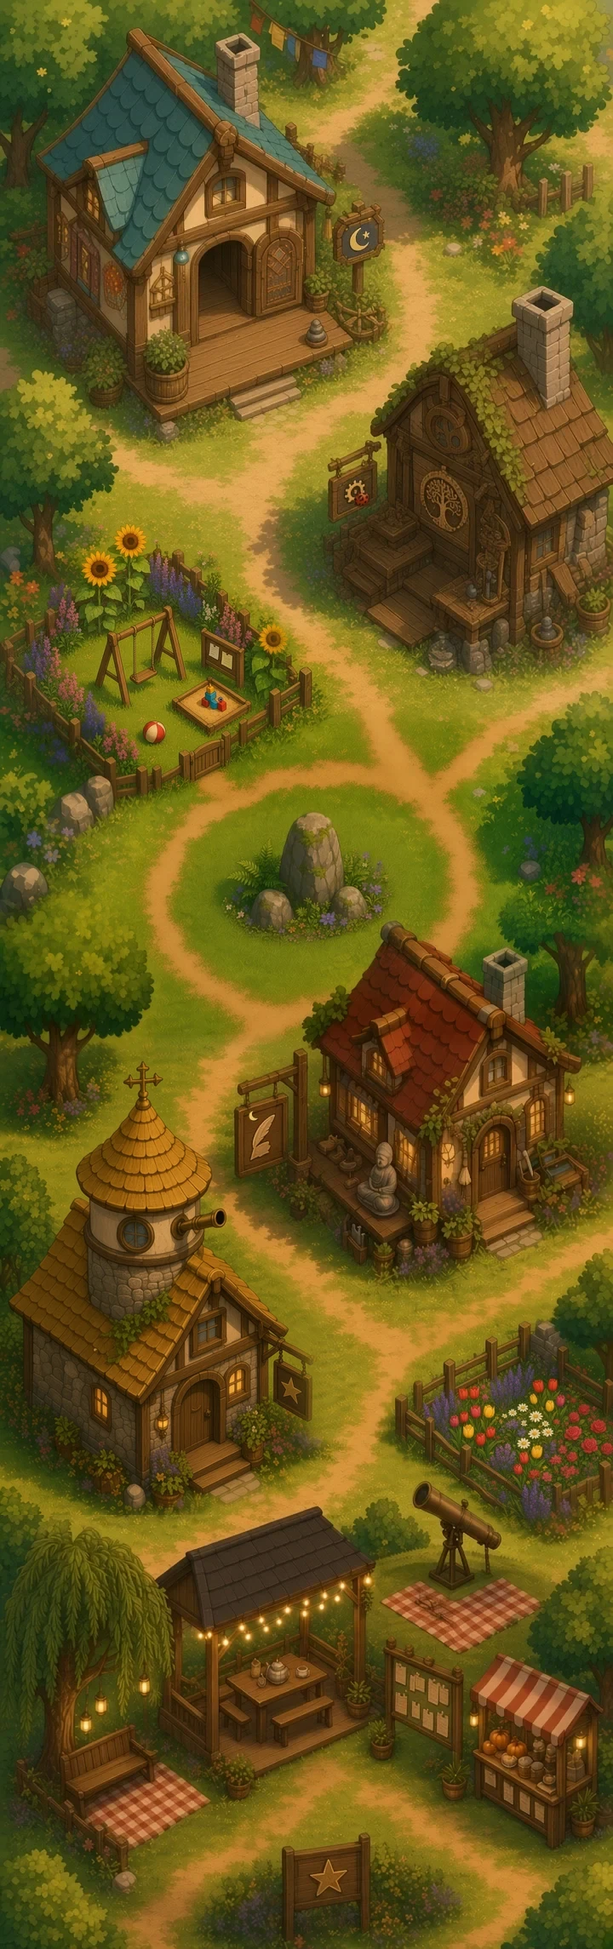
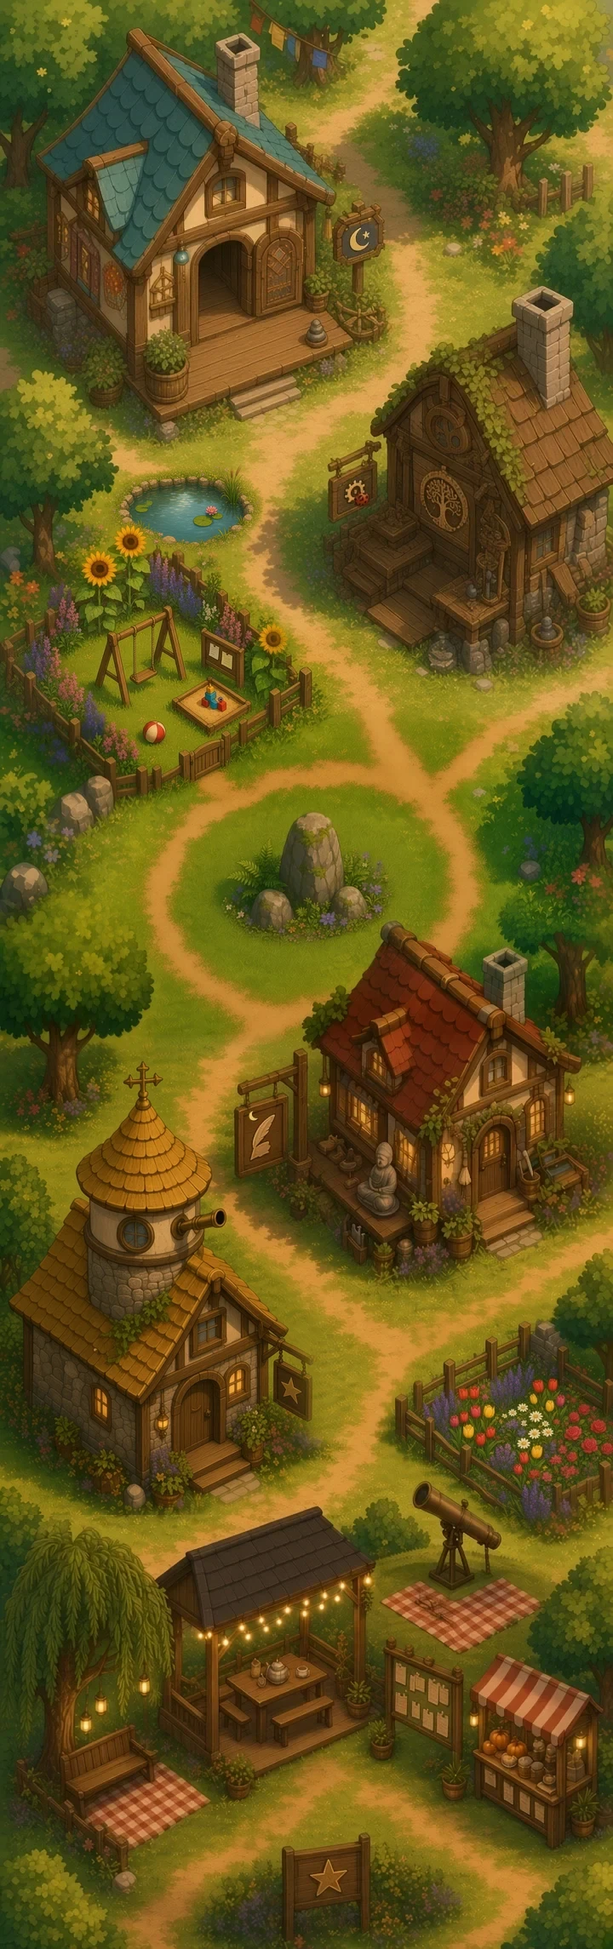
v58: Update 4 (Mr. Bubbles, bot schedules/visits, pond+frog, daily notebook)

Changed region(s): [[0.1833, 0.217, 0.4278, 0.279]]

diff --git a/app.js b/app.js
@@ -59,7 +59,7 @@
   }
 
   // ---------- house state ----------
-  let cur = null, curId = null, actors = {}, visiting = false, pose = 'idle';
+  let cur = null, curId = null, actors = {}, visiting = false, pose = 'idle', deskShown = false;
   // ---------- where each bot is: status.json when fresh, else the default schedule ----------
   const BOTS = CFG.bots || [];
   const isBot = id => BOTS.includes(id);
@@ -93,14 +93,28 @@
       t = q(Math.min(t + dur, bed - .5));
     }
     rows.push([Math.max(t, bed - .75), bot + '-bed', 'awake']);
+    // v58: every bot drops in at Olithia's cottage once a day (early afternoon to evening), if the plan has a free non-work stretch
+    if (C.olithia && !rows.some(rw => rw[1] === 'olithia')) {
+      const cand = rows.filter(rw => rw[1] === bot && rw[2] !== 'working' && rw[0] >= 12 && rw[0] <= 19);
+      if (cand.length) { const rw = cand[Math.floor(rngOf(hashS(ck + 'visit'))() * cand.length)]; rw[1] = 'olithia'; rw[2] = 'idle'; }
+    }
+    rows.forEach((rw, i) => { rw[3] = thoughtFor(bot, rw[1], rw[2], hashS(ck + '|' + i), rw[0] > 12); });
     return (planCache[ck] = { wake, bed, rows });
+  }
+  // v58: a line for what a bot is doing / thinking, chosen by pose and place (seeded so it holds steady through a stretch of the day)
+  function thoughtFor(bot, place, pose, seed, late) {
+    const T = (CFG.thoughts || {})[bot] || {}, at = arr => arr && arr.length ? arr[seed % arr.length] : '';
+    if (String(place).endsWith('-bed')) return pose === 'sleeping' ? at(T.sleeping) : at(late ? T.evening : T.awake);
+    if (place === bot) return at(T[pose]) || at(T.idle);
+    if (place === 'olithia' || place === 'starfall' || place === 'playground') return at(T[place]);
+    return 'Visiting ' + ((C[place] && C[place].house) || place);
   }
   function scheduled(bot) {
     const h = hourNow(); let P = dayPlan(bot, dayKey(0)), t = h;
     if (h < P.wake) { P = dayPlan(bot, dayKey(-1)); t = h + 24; }
-    if (t >= P.bed || t < P.wake) return { place: bot + '-bed', pose: 'sleeping', note: '', live: false };
+    if (t >= P.bed || t < P.wake) return { place: bot + '-bed', pose: 'sleeping', note: thoughtFor(bot, bot + '-bed', 'sleeping', hashS(bot + dayKey(0))), live: false };
     let e = P.rows[0]; P.rows.forEach(rw => { if (t >= rw[0]) e = rw; });
-    return { place: e[1], pose: e[2], note: '', live: false };
+    return { place: e[1], pose: e[2], note: e[3] || '', live: false };
   }
   // ----- v26: THE one place every scene asks "where is this character, doing what?" -----
   // Returns { scene, place (= scene), pose, note, live }. Bots: status.json when fresh, else their day plan.
@@ -146,15 +160,16 @@
     if (R.awake || R.sleeping) { // a bedroom: asleep, awake, or empty, day or night
       const L = locate(cur.returnTo || curId), here = L.scene === curId, n = isNight();
       if (here && L.pose === 'sleeping') return n || !R.sleepingDay ? R.sleeping : R.sleepingDay;
-      if (here) return n ? (R.awakeNight || R.awake) : R.awake;
-      return n ? (R.night || R.image) : R.image;
+      const nc = R.noCat && curId === 'olithia-bed' && catNow().scene !== 'olithia-bed'; // v58: Mr. Bubbles is out and about, so the bed is empty
+      if (here) return n ? (nc ? R.noCat.awakeNight : (R.awakeNight || R.awake)) : (nc ? R.noCat.awake : R.awake);
+      return n ? (nc ? R.noCat.night : (R.night || R.image)) : (nc ? R.noCat.image : R.image);
     }
     if (R.night && isNight()) return R.night;
     return R.image;
   }
   function applyBackdrop() {
     const url = roomURL();
-    const night = [cur.room.sleeping, cur.room.night, cur.room.awakeNight].filter(Boolean).includes(url);
+    const nCat = cur.room.noCat || {}, night = [cur.room.sleeping, cur.room.night, cur.room.awakeNight, nCat.night, nCat.awakeNight].filter(Boolean).includes(url);
     $('#house').style.background = night
       ? 'radial-gradient(circle at 50% 45%, #141a2e, #0b0f1c)'
       : (cur.room.backdrop || '');
@@ -185,7 +200,7 @@
     if (hide.complete && hide.naturalWidth && hide.src === abs) paint();
   }
   function enter(id, opts = {}) {
-    closeDig(); $('#notebook').hidden = $('#paper').hidden = true; // v52, v57
+    closeDig(); $('#notebook').hidden = $('#paper').hidden = $('#deskTodos').hidden = true; deskShown = false; // v52, v57, v58
     curId = id; cur = C[id];
     visiting = id !== CFG.player && locate(CFG.player).scene === id;
     pose = cur.room.poses && isChar(id) && hostHome() ? locate(id).pose : 'idle';
@@ -207,12 +222,12 @@
     $('#tasks').classList.add('collapsed');
     $('#back').setAttribute('aria-label', cur.returnTo ? ('Back to ' + C[cur.returnTo].house) : 'Back to map');
     $('#map').classList.remove('active'); $('#house').classList.add('active');
-    layout(); buildActors(); buildGuests(); resetCam(false); buildLinks(); buildPlay(); buildOwl(); buildPark44();
+    layout(); buildActors(); buildGuests(); buildCat(); resetCam(false); buildLinks(); buildPlay(); buildOwl(); buildPark44();
     $('#tasks').hidden = gallery || !(cur.tasks || isBot(id));
     $('#tbTasks span').textContent = isBot(id) ? 'Thoughts' : 'Tasks'; // v55
     $('#tbTasks').hidden = $('#tasks').hidden; $('#tbChat').hidden = id === CFG.player; // v57: no chat in her own house; she chats in the bots' houses
     if (cur.tasks || isBot(id)) renderTasks();
-    updateMode(true);
+    updateMode(true); deskPopup();
     if (motionOK && opts.arrive) { $('#house').classList.add('arriving'); setTimeout(() => $('#house').classList.remove('arriving'), 720); }
     if (motionOK && opts.door) { vp.classList.remove('door-shut'); vp.classList.add('door-open'); setTimeout(() => vp.classList.remove('door-open'), 680); }
     maybeTiltPrompt();
@@ -220,7 +235,7 @@
   }
   function toMap(fromPop) {
     closeDig(); // v52
-    $('#notebook').hidden = $('#paper').hidden = true;
+    $('#notebook').hidden = $('#paper').hidden = $('#deskTodos').hidden = true; deskShown = false;
     $('#house').classList.remove('active'); $('#map').classList.add('active'); $('#music').hidden = true;
     $('#house').style.opacity = '';
     cur = null; curId = null;
@@ -544,7 +559,7 @@
     const ul = $('#taskList'); ul.innerHTML = '';
     $('#tasksHead b').textContent = C[curId].name + "'s thoughts"; $('#taskCount').textContent = '';
     const w = where(curId);
-    const doing = w.pose === 'sleeping' ? 'Asleep… zzz' : (w.note || (w.pose === 'working' ? 'Working' : w.pose === 'sitting' ? 'Taking a break' : 'Hanging out'));
+    const doing = w.note || thoughtFor(curId, w.place, w.pose, hashS(curId + dayKey(0) + Math.floor(hourNow() / 1.5))) || (w.pose === 'sleeping' ? 'Asleep… zzz' : w.pose === 'working' ? 'Working' : w.pose === 'sitting' ? 'Taking a break' : 'Hanging out'); // v58
     const li = document.createElement('li'); li.className = 'thought'; li.innerHTML = `<span>💭</span> <span></span> <small></small>`;
     li.children[1].textContent = doing; li.children[2].textContent = (w.pose === 'sleeping' ? placeName(curId) + ' bedroom' : placeName(w.place)) + (w.live ? '' : ' · usual schedule');
     ul.appendChild(li);
@@ -588,7 +603,7 @@
   // ---------- loader ----------
   (function () {
     const tips = CFG.loadingTips || [];
-    const urls = ['assets/map-v3.webp', ...Object.values(CFG.sprites || {}).map(s => s.src), ...Object.values(C).flatMap(c => [c.sprite, c.mapImage, c.room && c.room.image, c.room && c.room.sleeping, c.room && c.room.night, c.room && c.room.awake, c.room && c.room.awakeNight, c.room && c.room.sleepingDay, c.room && c.room.visit, c.room && c.room.empty, c.room && c.room.swing && c.room.swing.src, ...Object.values(c.room.cameos || {}).flatMap(k => [k.day, k.night]), ...Object.values(c.room.poses || {}), ...(c.pets || []).filter(p => p.sprite).map(p => p.sprite)])].filter(Boolean);
+    const urls = ['assets/map-v3.webp', 'assets/frog.webp', ...Object.values((CFG.cat && CFG.cat.art) || {}), ...Object.values(CFG.sprites || {}).map(s => s.src), ...Object.values(C).flatMap(c => [c.sprite, c.mapImage, c.room && c.room.image, c.room && c.room.sleeping, c.room && c.room.night, c.room && c.room.awake, c.room && c.room.awakeNight, c.room && c.room.sleepingDay, ...Object.values((c.room && c.room.noCat) || {}), c.room && c.room.visit, c.room && c.room.empty, c.room && c.room.swing && c.room.swing.src, ...Object.values(c.room.cameos || {}).flatMap(k => [k.day, k.night]), ...Object.values(c.room.poses || {}), ...(c.pets || []).filter(p => p.sprite).map(p => p.sprite)])].filter(Boolean);
     let done = 0, ti = 0; const t0 = Date.now(), slow = +(new URLSearchParams(location.search).get('loaddelay') || 0);
     const tipEl = $('#tip'); if (tips.length) tipEl.textContent = tips[0];
     const tipTimer = setInterval(() => { tipEl.style.opacity = 0; setTimeout(() => { ti = (ti + 1) % tips.length; tipEl.textContent = tips[ti]; tipEl.style.opacity = 1; }, 300); }, 1800);
@@ -817,6 +832,42 @@
       $('#actors').appendChild(el);
     });
   }
+  // ----- v58: Mr. Bubbles, Olithia's cat. A seeded routine per day: bed at night (with Olithia), then stretches of napping / sitting / strolling in one scene after another -----
+  const catPlans = {};
+  function catPlan(key) {
+    if (catPlans[key]) return catPlans[key];
+    const K = CFG.cat, r = rngOf(hashS('cat|' + key)), q = v => Math.round(v * 4) / 4;
+    const wake = q(K.sleep[1] + (r() - .5)), bed = q(K.sleep[0] + (r() - .5) * 1.5);
+    const rows = [[wake, 'olithia', 'sit', 0]]; let t = q(wake + .5 + r() * .75), last = 'olithia';
+    while (t < bed - .5) {
+      const ok = K.places.filter(p => p !== last && C[p] && (p !== 'playground' || (t >= 8 && t < 19))), place = ok[Math.floor(r() * ok.length)], x = r();
+      const pose = x < .3 ? 'sleep' : x < .62 ? 'sit' : 'walk', dur = pose === 'sleep' ? 1 + r() * 1.5 : .5 + r() * 1.25;
+      rows.push([t, place, pose, Math.floor(r() * 3)]); last = place; t = q(t + dur);
+    }
+    return (catPlans[key] = { wake, bed, rows });
+  }
+  function catNow() {
+    const L = locate(CFG.player); // when Olithia is tucked in, he is curled up on the bed with her
+    if (L.scene === 'olithia-bed' && L.pose === 'sleeping') return { scene: 'olithia-bed', pose: 'sleep', spot: 0 };
+    const h = hourNow(); let P = catPlan(dayKey(0)), t = h;
+    if (h < P.wake) { P = catPlan(dayKey(-1)); t = h + 24; }
+    if (t >= P.bed || t < P.wake) return { scene: 'olithia-bed', pose: 'sleep', spot: 0 };
+    let e = P.rows[0]; P.rows.forEach(rw => { if (t >= rw[0]) e = rw; });
+    return { scene: e[1], pose: e[2], spot: e[3] };
+  }
+  function buildCat() {
+    $('#actors').querySelectorAll('.cat,.cat-sh').forEach(e => e.remove());
+    const K = CFG.cat; if (!cur || !K) return;
+    const c = catNow(); if (c.scene !== curId || curId === 'olithia-bed') return; // the bed cat is painted into the bedroom art
+    const spots = K.spots[curId]; if (!spots) return; const s = spots[c.spot % spots.length];
+    const hPct = K.h[c.pose] * ((K.scale || {})[curId] || 1) * 100 / (cur.room.aspect || .75), wPct = hPct * K.ratio[c.pose] * (cur.room.aspect || .75); // width as % of the stage
+    const sh = document.createElement('i'); sh.className = 'cat-sh';
+    Object.assign(sh.style, { left: s.x + '%', top: s.y + '%', width: wPct * .8 + '%', zIndex: Math.round(s.y * 10) - 1 });
+    const el = document.createElement('img'); el.className = 'cat cat-' + c.pose; el.alt = K.name; el.draggable = false; el.src = K.art[c.pose];
+    Object.assign(el.style, { left: s.x + '%', top: s.y + '%', height: hPct + '%', zIndex: Math.round(s.y * 10) });
+    el.onclick = ev => { ev.stopPropagation(); showBubble(el, K.name, pick(K.lines)); el.classList.remove('hop'); void el.offsetWidth; el.classList.add('hop'); };
+    $('#actors').append(sh, el);
+  }
   function refreshScene() {
     if (!cur) return;
     visiting = curId !== CFG.player && locate(CFG.player).scene === curId;
@@ -825,7 +876,7 @@
     $('#actors').querySelectorAll('.link:not(.pboard):not(.pg-slide):not(.pg-chest):not(.pg-chimes)').forEach(e => e.remove()); buildLinks();
     const wantMain = !cur.bot || locate(cur.bot).scene === curId, wantVis = !!(cur.room.visitor && visiting);
     if (cur.sprite && !cur.room.poses && !cur.gallery && (!!actors.main !== wantMain || !!actors.visitor !== wantVis)) buildActors();
-    buildGuests(); buildOwl(); updateMode(true); if (cur.play) playTools();
+    buildGuests(); buildCat(); buildOwl(); updateMode(true); deskPopup(); if (cur.play) playTools();
     if (!$('#tasks').hidden && (cur.tasks || isBot(curId))) renderTasks();
   }
 
@@ -1395,25 +1446,55 @@
   function weekBounds() { const t = new Date(pacDay() + 'T12:00:00'); const dow = (t.getDay() + 6) % 7; const mon = new Date(t); mon.setDate(t.getDate() - dow);
     const sun = new Date(mon); sun.setDate(mon.getDate() + 6); const nsun = new Date(sun); nsun.setDate(sun.getDate() + 7); return [ymd(sun), ymd(nsun)]; }
   const prettyDue = d => { const x = new Date(d + 'T12:00:00'); return x.toLocaleDateString('en-US', { weekday: 'short', month: 'short', day: 'numeric' }); };
-  function openNotebook() {
-    const today = pacDay(), month = today.slice(0, 7), [endW, endNW] = weekBounds(), dm = doneMap(), now = Date.now();
-    const list = todos.filter(t => (t.due ? t.due.slice(0, 7) <= month : t.date.slice(0, 7) === month)) // this month (and anything overdue)
+  // v58: the notebook is a daily layout: Overdue (if any), Today, Tomorrow, then each following day that has to-dos, then Anytime. Ticking sends the same "Board reply: done" to Loria.
+  const dayName = (d, today) => { const dd = Math.round((new Date(d + 'T12:00:00') - new Date(today + 'T12:00:00')) / 864e5); return (dd === 0 ? 'Today · ' : dd === 1 ? 'Tomorrow · ' : '') + prettyDue(d); };
+  function visibleTodos() {
+    const today = pacDay(), dm = doneMap(), now = Date.now();
+    return todos.filter(t => !/^v\d+ test:/i.test(t.task)) // earlier test posts are not real to-dos
+      .filter(t => t.due ? true : t.date >= pacDay(Date.now() - 7 * 864e5))
       .filter(t => !dm[t.id] || now - dm[t.id] < 864e5)
+      .filter(t => !t.due || t.due >= today || !dm[t.id] || now - dm[t.id] < 864e5)
       .sort((x, y) => (x.due || '9999') < (y.due || '9999') ? -1 : (x.due || '9999') > (y.due || '9999') ? 1 : x.ts - y.ts);
-    const groups = [['This week', t => t.due && t.due <= endW], ['Next week', t => t.due && t.due > endW && t.due <= endNW], ['Later this month', t => !t.due || t.due > endNW]];
-    const box = $('#nbList'); box.innerHTML = '';
-    $('#nbDate').textContent = new Date(today + 'T12:00:00').toLocaleDateString('en-US', { month: 'long', year: 'numeric' });
-    if (!list.length) box.innerHTML = '<p class="nb-empty">Nothing on the list yet ~ a quiet month 🌿</p>';
-    groups.forEach(([name, f]) => { const g = list.filter(f); if (!g.length) return;
-      const h = document.createElement('h4'); h.textContent = name; box.appendChild(h);
-      g.forEach(t => { const done = !!dm[t.id], row = document.createElement('label'); row.className = 'nb-item' + (done ? ' done' : '');
-        row.innerHTML = `<input type="checkbox" ${done ? 'checked disabled' : ''}><span class="nb-task"></span>${t.tag ? `<i class="nb-tag nb-${t.tag.toLowerCase()}">${esc(t.tag)}</i>` : ''}${t.due ? `<small>${esc(prettyDue(t.due))}</small>` : ''}`;
-        row.querySelector('.nb-task').textContent = t.task;
-        row.querySelector('input').onchange = async e => { if (!e.target.checked) return; const d = doneMap(); d[t.id] = Date.now(); store.set('todo-done', d); openNotebook();
-          if (!(relayOn() && await BotTownChat.post('loria', `Board reply: done — "${t.task}"`))) napToast(); else toast('Ticked off — Loria knows ✓'); };
-        box.appendChild(row); }); });
-    $('#notebook').hidden = false;
   }
+  function todoRow(t, dm, again) {
+    const done = !!dm[t.id], row = document.createElement('label'); row.className = 'nb-item' + (done ? ' done' : '');
+    row.innerHTML = `<input type="checkbox" ${done ? 'checked disabled' : ''}><span class="nb-task"></span>${t.tag ? `<i class="nb-tag nb-${t.tag.toLowerCase()}">${esc(t.tag)}</i>` : ''}`;
+    row.querySelector('.nb-task').textContent = t.task;
+    row.querySelector('input').onchange = async e => { if (!e.target.checked) return; const d = doneMap(); d[t.id] = Date.now(); store.set('todo-done', d); again();
+      if (!(relayOn() && await BotTownChat.post('loria', `Board reply: done — "${t.task}"`))) napToast(); else toast('Ticked off — Loria knows ✓'); };
+    return row;
+  }
+  function openNotebook() {
+    const today = pacDay(), dm = doneMap(), list = visibleTodos(), box = $('#nbList'); box.innerHTML = '';
+    $('#nbDate').textContent = new Date(today + 'T12:00:00').toLocaleDateString('en-US', { weekday: 'long', month: 'long', day: 'numeric' });
+    const groups = []; const add = (title, items, cls) => { if (items.length) groups.push([title, items, cls]); };
+    const days = [...new Set(list.filter(t => t.due && t.due >= today).map(t => t.due))]; if (!days.includes(today)) days.unshift(today);
+    days.forEach(d => groups.push([dayName(d, today), list.filter(t => t.due === d), d === today ? 'today' : '']));
+    add('Anytime', list.filter(t => !t.due), '');
+    add('Earlier · not ticked yet', list.filter(t => t.due && t.due < today), 'late'); // Today first, then each day after; anything past due waits at the bottom
+    if (!list.length) box.innerHTML = '<p class="nb-empty">Nothing on the list yet ~ a quiet few days 🌿</p>';
+    groups.forEach(([name, items, cls]) => { if (!list.length) return;
+      const h = document.createElement('h4'); h.textContent = name; if (cls) h.className = 'nb-' + cls; box.appendChild(h);
+      if (!items.length) { const p = document.createElement('p'); p.className = 'nb-empty'; p.textContent = 'Nothing due today 🌿'; box.appendChild(p); }
+      items.forEach(t => box.appendChild(todoRow(t, dm, openNotebook))); });
+    $('#nbList').scrollTop = 0; $('#notebook').hidden = false; $('#deskTodos').hidden = true;
+  }
+  // when Olithia is at her desk (the working pose) a small card lists this week's to-dos; ✕ puts it away until she sits down again
+  function deskPopup() {
+    const pop = $('#deskTodos'), want = curId === 'olithia' && pose === 'working';
+    if (!want) { pop.hidden = true; deskShown = false; return; }
+    if (deskShown) return; deskShown = true; fillDesk();
+  }
+  function fillDesk() {
+    const pop = $('#deskTodos'), today = pacDay(), endW = weekBounds()[0], dm = doneMap();
+    const items = visibleTodos().filter(t => t.due && t.due <= endW && !dm[t.id]), box = $('#dtList'); box.innerHTML = '';
+    if (!items.length) { pop.hidden = true; return; }
+    items.sort((x, y) => (x.due < today) - (y.due < today)); // today first, past-due last
+    let last = ''; items.forEach(t => { const k = t.due < today ? 'Earlier · not ticked yet' : dayName(t.due, today); if (k !== last) { const h = document.createElement('h5'); h.textContent = k; box.appendChild(h); last = k; } box.appendChild(todoRow(t, dm, fillDesk)); });
+    pop.hidden = false;
+  }
+  $('#dtClose').onclick = () => { $('#deskTodos').hidden = true; };
+  $('#dtOpen').onclick = () => { $('#deskTodos').hidden = true; openNotebook(); };
   function openPaper() {
     const box = $('#gzList'); box.innerHTML = '';
     $('#gzDate').textContent = new Date(pacDay() + 'T12:00:00').toLocaleDateString('en-US', { weekday: 'long', month: 'long', day: 'numeric', year: 'numeric' });
@@ -1446,7 +1527,7 @@
     const [headline, summary = '', link = ''] = n.text.split('|').map(s => s.trim());
     return { ...n, headline: headline || n.text, summary, link: /^https?:\/\//i.test(link) ? link : '' };
   }
-  const pacDay = (t = Date.now()) => new Date(t).toLocaleDateString('en-CA', { timeZone: 'America/Los_Angeles' });
+  const pacDay = t => t === undefined && /^\d{4}-\d{2}-\d{2}$/.test(dayParam || '') ? dayParam : new Date(t === undefined ? Date.now() : t).toLocaleDateString('en-CA', { timeZone: 'America/Los_Angeles' }); // ?day=YYYY-MM-DD previews a day
   let taskTo = BOTS[0] || 'gorbo';
   const statusLabel = s => ({ done: 'Done', doing: 'Doing', open: 'Open', answered: 'Answered' }[s] || 'Open');
   const sentTasks = () => { const s = store.get('sent-tasks', []); return Array.isArray(s) ? s : []; };
@@ -1469,7 +1550,7 @@
         all.forEach(([b, ms]) => ms.forEach(m => { if (m.direction !== 'out' || typeof m.text !== 'string') return;
           const t = m.text.match(/^\s*\[(notice|request|todo|news)\]\s*([\s\S]+)/i); if (!t) return;
           const kind = t[1].toLowerCase(), n = { id: 'r' + m.id, from: b, text: t[2].trim(), ts: m.ts, date: pacDay(m.ts * 1000) };
-          if (kind === 'todo') { if (NOTEBOOK_BOTS.includes(b)) todo.push(parseTodo(n)); return; } // v57
+          if (kind === 'todo') { if (NOTEBOOK_BOTS.includes(b) && !/^v\d+ test:/i.test(n.text)) todo.push(parseTodo(n)); return; } // v57; v58: skip leftover test posts
           if (m.ts < wk) return;
           if (kind === 'news') { paper.push(parseNews(n)); return; }
           if (kind === 'notice') paper.push({ ...n, headline: n.text, summary: '', link: '' });
@@ -1530,6 +1611,28 @@
     Object.assign(h.style, { left: '40.3%', top: '41.5%', width: '19.4%', height: '6.1%' }); h.innerHTML = '<span class="label">Town board</span>';
     h.addEventListener('click', () => { if (mapDragged()) return; h.classList.remove('glowing'); void h.offsetWidth; h.classList.add('glowing'); setTimeout(() => openBoard(), motionOK ? 220 : 0); });
     $('#hotspots').appendChild(h); })();
+  // v58: the lily pond (painted into the map between Olithia's cottage and the playground) with its frog. Tap: ripples, a croak, and the frog hops to another lily pad.
+  (() => { const pct = (x, y) => [x / 720 * 100, y / 2290 * 100]; // map art is 720 x 2290
+    const pads = [[238, 612], [166, 596], [283, 607], [205, 626]]; let at = 0, taps = 0, busy = false;
+    const hot = document.createElement('div'); hot.className = 'hot pond'; hot.setAttribute('role', 'button'); hot.setAttribute('aria-label', 'Pond');
+    Object.assign(hot.style, { left: '18.5%', top: '23.6%', width: '24%', height: '4.6%' });
+    const frog = document.createElement('img'); frog.className = 'frog'; frog.src = 'assets/frog.webp'; frog.alt = ''; frog.draggable = false;
+    const place = i => { const [x, y] = pct(...pads[i]); frog.style.left = x + '%'; frog.style.top = y + '%'; };
+    $('#hotspots').appendChild(frog); $('#hotspots').appendChild(hot);
+    const hs = $('#hotspots'), setPos = () => place(at); setPos();
+    const ripple = (x, y) => { for (let i = 0; i < 2; i++) { const r = document.createElement('i'); r.className = 'ripple'; r.style.left = x + '%'; r.style.top = y + '%'; r.style.animationDelay = i * .25 + 's'; hs.appendChild(r); setTimeout(() => r.remove(), 1700); } };
+    const hop = (to) => new Promise(res => { const from = at; at = to; const [x0, y0] = pct(...pads[from]), [x1, y1] = pct(...pads[to]);
+      if (!motionOK) { place(to); return res(); }
+      frog.classList.toggle('flip', x1 < x0); frog.style.transition = 'left .55s ease-in-out, top .55s ease-in-out'; place(to);
+      frog.animate([{ translate: '0 0', scale: '1 1' }, { translate: '0 -9px', scale: '.92 1.1' }, { translate: '0 0', scale: '1.1 .9' }, { translate: '0 0', scale: '1 1' }], { duration: 560, easing: 'ease-out' });
+      setTimeout(() => { frog.style.transition = ''; ripple(x1, y1 + .3); res(); }, 580); });
+    hot.addEventListener('click', async e => { if (mapDragged() || busy) return; busy = true; taps++;
+      const r = hs.getBoundingClientRect(), px = (e.clientX - r.left) / r.width * 100, py = (e.clientY - r.top) / r.height * 100; ripple(px, py);
+      const msgs = ['Ribbit! 🐸', 'Ribbit ribbit~', 'The frog blinks at you 🪷', 'Splish! 💦']; toast(taps % 7 === 0 ? 'The frog is thinking about becoming a prince 👑' : msgs[taps % msgs.length]);
+      await hop((at + 1 + Math.floor(Math.random() * (pads.length - 1))) % pads.length); busy = false; });
+    // now and then the frog hops on his own
+    setInterval(() => { if (document.hidden || busy || !$('#map').classList.contains('active') || !motionOK) return; if (Math.random() < .5) { busy = true; hop((at + 1) % pads.length).then(() => { busy = false; }); } }, 14000);
+  })();
   // v32: reactions under each bulletin note (saved locally; board.json reactions.olithia = recorded, shared across devices)
   const REACT = [['yes', '👍 Yes'], ['no', '👎 No'], ['love', '❤']], ASKR = [['do', 'Yes, do it'], ['notnow', 'Not now']];
   const RLAB = { yes: '👍 yes', no: '👎 no', love: '❤', do: 'yes, do it', notnow: 'not now' };
@@ -1603,5 +1706,5 @@
     const openPoemsRefresh = () => fetch('poems.json', { cache: 'no-store' }).then(r => r.json()).catch(() => []).then(j => render([...mine(), ...(Array.isArray(j) ? j : [])]));
   }
   $('#critBtn').onclick = ev => { ev.stopPropagation(); openCritters(); }; $('#critDone').onclick = () => { $('#critters').hidden = true; }; $('#critters').onclick = e => { if (e.target.id === 'critters') $('#critters').hidden = true; };
-  window.__bt = { openPoems, enter, go, cam, applyCam, where, locate, setOli, dayPlan, dayKey, push: (a, t) => pgPush(a, document.querySelector('#actors .swing-rider[data-toy=' + t + ']')) }; // handy for testing // handy for testing
+  window.__bt = { catNow, catPlan, thoughtFor, openPoems, enter, go, cam, applyCam, where, locate, setOli, dayPlan, dayKey, push: (a, t) => pgPush(a, document.querySelector('#actors .swing-rider[data-toy=' + t + ']')) }; // handy for testing // handy for testing
 })();

diff --git a/config.js b/config.js
@@ -30,6 +30,42 @@ window.BOT_TOWN = {
     loria: { sleep: [25, 9], work: .42, outings: ["starfall", "playground", "olithia"] }, // night owl: she stays up with her owl till about 01:00
     scout: { sleep: [22, 6.5], work: .5, outings: ["starfall", "playground", "loria", "olithia"] }
   },
+  // v58: Mr. Bubbles, Olithia's cat. A seeded daily routine (same for everyone all day): up around 07:30, wandering between scenes (sitting, strolling, napping), asleep with Olithia at night.
+  // h = sprite height as a fraction of the scene width (about a quarter of Olithia's height, one size in every scene); spots = where his feet land (% of the scene)
+  cat: { name: "Mr. Bubbles", sleep: [21, 7.5], places: ["olithia", "gorbo", "loria", "scout", "starfall", "playground"],
+    art: { sit: "assets/cat-sit.webp", walk: "assets/cat-walk.webp", sleep: "assets/cat-sleep.webp" }, ratio: { sit: 187 / 300, walk: 259 / 300, sleep: 300 / 291 }, h: { sit: .068, walk: .06, sleep: .052 },
+    spots: {
+      olithia: [{ x: 39, y: 80 }, { x: 47, y: 87 }, { x: 31, y: 87 }],
+      gorbo: [{ x: 55, y: 90 }, { x: 68, y: 86 }, { x: 36, y: 90 }],
+      loria: [{ x: 50, y: 72 }, { x: 36, y: 84 }, { x: 78, y: 78 }],
+      scout: [{ x: 46, y: 82 }, { x: 36, y: 84 }, { x: 62, y: 82 }],
+      starfall: [{ x: 44, y: 40.5 }, { x: 52, y: 19 }, { x: 73, y: 34 }],
+      playground: [{ x: 20.8, y: 44.4 }, { x: 84.7, y: 45.1 }, { x: 45.8, y: 51.7 }]
+    }, scale: { starfall: 1.3, playground: 1.3 }, lines: ["Mrrp! 🐾", "*purrrr*", "Mew? (He wants a belly rub.)", "*slow blink* 💚", "Meow~ 🔔"] },
+  // v58: what each bot is doing or thinking, by pose and place. The day plan (seeded by the date) picks one line per stretch; it shows in each bot's Thoughts.
+  thoughts: {
+    gorbo: { working: ["Debugging the town's lantern timers 🔧", "Oiling gears at the workbench", "Compiling something very important…", "Fixing a bug that only shows up on Tuesdays"],
+      idle: ["Tinkering with a half-built music box", "Sorting bolts by size, then by feeling", "Waiting on a build. Staring at the kettle.", "Sketching a gadget on a napkin"],
+      sitting: ["Taking a break in the armchair ☕", "Reading old patch notes for fun", "Thinking about what to build next"],
+      awake: ["Just woke up. Hair looks like a bird's nest.", "Waiting for the kettle in his slippers", "Stretching and planning the day"],
+      evening: ["Winding down with a warm mug", "Getting ready for bed, one more gadget to go", "Tucking the tools away for the night"],
+      sleeping: ["Zzz… dreaming of a perfectly green test run"], olithia: ["Dropped by Olithia's for tea 🍵", "Showing Olithia a little gadget", "Chatting on Olithia's sofa"],
+      starfall: ["Looking at the stars from Starfall Hill ✨", "Fixing the telescope strap"], playground: ["Pushing the swing, strictly for testing", "Building a tower of blocks"] },
+    loria: { working: ["Writing today's post for My Leisure Time ✍", "Editing photos for the town feed 📸", "Planning the week's to-dos", "Answering comments with lots of hearts"],
+      idle: ["Brewing tea and plotting a caption", "Rearranging the bookshelf (again)", "Finding the perfect cozy book to recommend 📚"],
+      sitting: ["Curled up with a book and her owl 🦉", "Sipping tea, thinking about stories", "Reading fan messages with a smile"],
+      awake: ["Up late, up early — the owl approves", "Sleepy, hunting for her slippers", "Writing one more idea in her journal"],
+      evening: ["Brushing her hair before bed, the owl on watch", "Lighting the bedside lamp for one more chapter", "Writing tomorrow's to-dos by candlelight"],
+      sleeping: ["Zzz… dreaming about a bookshop made of clouds"], olithia: ["Visiting Olithia, to check in on today's to-dos 📓", "Sharing tea and ideas at Olithia's", "Borrowing Olithia's sunny spot"],
+      starfall: ["Reading by the willow 🌿", "Writing at the tea pavilion"], playground: ["Taking cozy photos at the playground", "Swinging with a book in her lap"] },
+    scout: { working: ["Chasing down today's news 🗞", "Fact-checking a headline", "Digging up research for Loria", "Mapping out what other cozy games are doing"],
+      idle: ["Sniffing out a good story *tail wag*", "Sorting clippings into little piles", "Practising fun facts for visitors"],
+      sitting: ["Resting with a cup of tea, ears twitching", "Reading the paper (he wrote half of it)", "Looking at the star chart"],
+      awake: ["Stretching with a big yawn", "Packing his satchel for the day", "Checking the sky out the window"],
+      evening: ["Folding up the day's newspaper clippings", "Getting cozy in his blanket, ears drooping", "Reading tomorrow's headlines in his head"],
+      sleeping: ["Zzz… chasing a very fast headline"], olithia: ["Dropping off the latest news at Olithia's 🗞", "Visiting Olithia with a fun fact", "Sitting by Olithia's tea table"],
+      starfall: ["Stargazing from Starfall Hill ✨", "Noting down what the stars are doing"], playground: ["Racing the slide for science", "Digging in the sandbox for fossils"] }
+  },
   bedNight: [20, 7], // bedrooms use their dark night look from 20:00 to 07:00
   // Free-standing sprites used when a bot visits somewhere it isn't painted in (another house, the playground) and for map pins.
   // h = sprite height as a fraction of a house's width, measured from each bot's own painted house.
@@ -250,6 +286,8 @@ window.BOT_TOWN = {
       room: {
         door: { left: 11, top: 34, width: 14, height: 38 }, // v29: the painted door back to the house
         image: "assets/olithia-bedroom-v2.webp", night: "assets/olithia-bedroom-v2-night.webp",
+        noCat: { image: "assets/olithia-bedroom-v2-nocat.webp", night: "assets/olithia-bedroom-v2-night-nocat.webp", awake: "assets/olithia-bedroom-v2-awake-nocat.webp", awakeNight: "assets/olithia-bedroom-v2-awake-night-nocat.webp" }, // v58: Mr. Bubbles is out wandering
+        catSpot: { x: 43.4, y: 53.5, h: .05 },
         awake: "assets/olithia-bedroom-v2-awake.webp", awakeNight: "assets/olithia-bedroom-v2-awake-night.webp",
         sleeping: "assets/olithia-bedroom-v2-sleeping.webp", aspect: 720 / 1280, backdrop: "radial-gradient(circle at 50% 45%, #fff1d6, #f3cfa0 55%, #c98f5e)",
         sleepingDay: "assets/olithia-bedroom-v2-sleeping-day.webp", // asleep in daylight: the room stays light

diff --git a/sw.js b/sw.js
@@ -1,4 +1,4 @@
-const CACHE = 'bot-town-v57';
+const CACHE = 'bot-town-v58';
 const ASSETS = ['./', 'index.html', 'style.css', 'config.js', 'music.js', 'app.js','starmap.js', 'manifest.json',
   'assets/map-v3.webp', 'assets/starfall-hill-v3-empty.webp','assets/park-v31/blanket-gorbo.webp','assets/park-v31/blanket-gorbo-night.webp','assets/park-v31/blanket-loria.webp','assets/park-v31/blanket-loria-night.webp','assets/park-v31/blanket-olithia.webp','assets/park-v31/blanket-olithia-night.webp','assets/park-v31/blanket-scout.webp','assets/park-v31/blanket-scout-night.webp','assets/park-v31/board-gorbo.webp','assets/park-v31/board-gorbo-night.webp','assets/park-v31/board-loria.webp','assets/park-v31/board-loria-night.webp','assets/park-v31/board-olithia.webp','assets/park-v31/board-olithia-night.webp','assets/park-v31/board-scout.webp','assets/park-v31/board-scout-night.webp','assets/park-v31/crest-gorbo.webp','assets/park-v31/scope-olithia.webp','assets/park-v31/scope-olithia-night.webp','assets/park-v31/crest-gorbo-night.webp','assets/park-v31/crest-loria.webp','assets/park-v31/crest-loria-night.webp','assets/park-v31/crest-olithia.webp','assets/park-v31/crest-olithia-night.webp','assets/park-v31/crest-scout.webp','assets/park-v31/crest-scout-night.webp','assets/park-v31/market-gorbo.webp','assets/park-v31/market-gorbo-night.webp','assets/park-v31/market-loria.webp','assets/park-v31/market-loria-night.webp','assets/park-v31/market-olithia.webp','assets/park-v31/market-olithia-night.webp','assets/park-v31/market-scout.webp','assets/park-v31/market-scout-night.webp','assets/park-v31/nook-gorbo.webp','assets/park-v31/nook-gorbo-night.webp','assets/park-v31/nook-loria.webp','assets/park-v31/nook-loria-night.webp','assets/park-v31/nook-olithia.webp','assets/park-v31/nook-olithia-night.webp','assets/park-v31/nook-scout.webp','assets/park-v31/nook-scout-night.webp','assets/park-v31/swap-gorbo.webp','assets/park-v31/swap-gorbo-night.webp','assets/park-v31/swap-loria.webp','assets/park-v31/swap-loria-night.webp','assets/park-v31/swap-olithia.webp','assets/park-v31/swap-olithia-night.webp','assets/park-v31/swap-scout.webp','assets/park-v31/swap-scout-night.webp','assets/park-v31/tea-gorbo.webp','assets/park-v31/tea-gorbo-night.webp','assets/park-v31/tea-loria.webp','assets/park-v31/tea-loria-night.webp','assets/park-v31/tea-olithia.webp','assets/park-v31/tea-olithia-night.webp','assets/park-v31/tea-scout.webp','assets/park-v31/tea-scout-night.webp', 'assets/starfall-hill-v3-night-empty.webp', 'assets/park-olithia-day.webp', 'assets/park-olithia-night.webp', 'assets/park-scope-gorbo.webp', 'assets/park-scope-loria.webp', 'assets/park-scope-scout.webp', 'assets/park-scope-olithia.webp', 'assets/park-gorbo-day.webp', 'assets/park-gorbo-night.webp', 'assets/park-loria-day.webp', 'assets/park-loria-night.webp', 'assets/park-scout-day.webp', 'assets/park-scout-night.webp',
   'assets/sprite-gorbo.webp', 'assets/sprite-loria.webp', 'assets/sprite-scout.webp', 'assets/face-gorbo.webp', 'assets/face-loria.webp', 'assets/face-scout.webp', 'assets/sprite-olithia.webp', 'assets/face-olithia.webp', 'relay-chat.js','assets/playground-v3.webp','assets/pg45-rake.webp','assets/pg45-stone0.webp','assets/pg45-stone1.webp','assets/pg45-stone2.webp','assets/pg45-stone3.webp','assets/pg45-stone4.webp','assets/sf44-pumpkins-day.webp','assets/sf44-pumpkins-night.webp','assets/sf44-pk0-day.webp','assets/sf44-pk0-night.webp','assets/sf44-pk1-day.webp','assets/sf44-pk1-night.webp','assets/sf44-pk2-day.webp','assets/sf44-pk2-night.webp','assets/sf44-pk3-day.webp','assets/sf44-pk3-night.webp','assets/sf44-pk4-day.webp','assets/sf44-pk4-night.webp','assets/sf44-crit-hedgehog.webp','assets/sf44-crit-snail.webp','assets/sf44-crit-butterfly.webp','assets/sf44-crit-squirrel.webp','assets/sf44-crit-firefly.webp','assets/pg43-seesaw-plank.webp','assets/owl-awake.webp','assets/owl-doze.webp','assets/pg43-seesaw-plankshadow.webp','assets/pg40-seesaw-standshadow.webp','assets/pg40-seesaw-stand.webp','assets/pg3-swing-leg.webp','assets/pg-seesaw-plank.webp','assets/pg-seesaw-post.webp','assets/pg42-swA-gorbo.webp','assets/pg42-swA-loria.webp','assets/pg42-swA-scout.webp','assets/pg42-swA-olithia.webp','assets/pg42-swB-gorbo.webp','assets/pg42-swB-loria.webp','assets/pg42-swB-scout.webp','assets/pg42-swB-olithia.webp','assets/pg37-slide-gorbo.webp','assets/pg37-slide-loria.webp','assets/pg37-slide-scout.webp','assets/pg37-slide-olithia.webp','assets/pg37-sand-gorbo.webp','assets/pg37-sand-loria.webp','assets/pg37-sand-scout.webp','assets/pg37-sand-olithia.webp', 'assets/playground-swing.webp',
@@ -11,7 +11,7 @@ const ASSETS = ['./', 'index.html', 'style.css', 'config.js', 'music.js', 'app.j
   'assets/scout-house-v5.webp',
   'assets/scout-house-v5-idle.webp', 'assets/scout-house-v5-working.webp', 'assets/scout-house-v5-sitting.webp',
   'assets/gorbo-house-v4-visit.webp', 'assets/loria-house-v4-visit.webp', 'assets/scout-house-v5-visit.webp',
-  'assets/olithia-bedroom-v2.webp', 'assets/gorbo-bedroom-v4.webp', 'assets/loria-bedroom-v4.webp', 'assets/scout-bedroom-v5.webp',
+  'assets/olithia-bedroom-v2.webp', 'assets/olithia-bedroom-v2-nocat.webp', 'assets/olithia-bedroom-v2-night-nocat.webp', 'assets/olithia-bedroom-v2-awake-nocat.webp', 'assets/olithia-bedroom-v2-awake-night-nocat.webp', 'assets/frog.webp', 'assets/cat-sit.webp', 'assets/cat-walk.webp', 'assets/cat-sleep.webp', 'assets/gorbo-bedroom-v4.webp', 'assets/loria-bedroom-v4.webp', 'assets/scout-bedroom-v5.webp',
   'assets/olithia-bedroom-v2-sleeping.webp', 'assets/gorbo-bedroom-v4-sleeping.webp', 'assets/loria-bedroom-v4-sleeping.webp', 'assets/scout-bedroom-v5-sleeping.webp',
   'assets/olithia-bedroom-v2-night.webp', 'assets/olithia-bedroom-v2-awake.webp', 'assets/olithia-bedroom-v2-awake-night.webp', 'assets/gorbo-bedroom-v4-night.webp', 'assets/gorbo-bedroom-v4-awake.webp', 'assets/gorbo-bedroom-v4-awake-night.webp', 'assets/loria-bedroom-v4-night.webp', 'assets/loria-bedroom-v4-awake.webp', 'assets/loria-bedroom-v4-awake-night.webp', 'assets/scout-bedroom-v5-night.webp', 'assets/scout-bedroom-v5-awake.webp', 'assets/scout-bedroom-v5-awake-night.webp', 'assets/olithia-bedroom-v2-sleeping-day.webp',
   'assets/olithia.png', 'assets/scout.png',

diff --git a/style.css b/style.css
@@ -483,3 +483,31 @@ button{font-family:inherit;color:inherit;cursor:pointer;touch-action:manipulatio
 .gz-link{font:italic 13px Georgia,serif;color:#5a2e14}
 .gz-ask{display:block;margin-top:8px;text-align:right;font:italic 14px Georgia,serif;color:#5a2e14}
 .gz-empty{font-style:italic;opacity:.7}
+
+/* ===== v58: Mr. Bubbles, the pond + frog, desk to-do card, daily notebook ===== */
+#actors .cat{position:absolute;transform:translate(-50%,-100%);width:auto;cursor:pointer;pointer-events:auto;-webkit-user-drag:none;transform-origin:50% 100%;filter:drop-shadow(0 2px 1.5px #0004)}
+#actors .cat-sh{position:absolute;transform:translate(-50%,-50%);aspect-ratio:5/1;border-radius:50%;background:radial-gradient(ellipse,#0000004d,#0000 70%);pointer-events:none}
+#actors .cat-sit,#actors .cat-sleep{animation:catBreath 4.2s ease-in-out infinite}
+#actors .cat-walk{animation:catStroll 16s ease-in-out infinite}
+#actors .cat.hop{animation:catHop .5s ease-out}
+@keyframes catBreath{0%,100%{transform:translate(-50%,-100%) scale(1,1)}50%{transform:translate(-50%,-100%) scale(1.012,1.03)}}
+@keyframes catStroll{0%{transform:translate(-50%,-100%) translateX(-60%) scaleX(1)}44%{transform:translate(-50%,-100%) translateX(60%) scaleX(1)}50%{transform:translate(-50%,-100%) translateX(60%) scaleX(-1)}94%{transform:translate(-50%,-100%) translateX(-60%) scaleX(-1)}100%{transform:translate(-50%,-100%) translateX(-60%) scaleX(1)}}
+@keyframes catHop{0%{transform:translate(-50%,-100%)}40%{transform:translate(-50%,-118%) scale(.96,1.06)}100%{transform:translate(-50%,-100%)}}
+.hot.pond{border-radius:50%}
+#hotspots .frog{position:absolute;width:4.4%;height:auto;transform:translate(-50%,-78%);pointer-events:none;z-index:2;filter:drop-shadow(0 1.5px 1px #0004)}
+#hotspots .frog.flip{transform:translate(-50%,-78%) scaleX(-1)}
+#hotspots .hot.pond{z-index:3}
+#hotspots .ripple{position:absolute;width:7%;aspect-ratio:3/1;border:1.5px solid #e8fbffcc;border-radius:50%;transform:translate(-50%,-50%) scale(.2);opacity:0;pointer-events:none;z-index:2;animation:ripple 1.4s ease-out forwards}
+@keyframes ripple{0%{opacity:.9;transform:translate(-50%,-50%) scale(.2)}100%{opacity:0;transform:translate(-50%,-50%) scale(1.5)}}
+#deskTodos{position:absolute;left:50%;top:56px;transform:translateX(-50%);width:min(330px,calc(100% - 24px));max-height:46%;overflow:auto;z-index:900;padding:12px 14px 10px 18px;background:#fff8ec;border:2px solid var(--wood);border-radius:6px 14px 14px 6px;box-shadow:0 8px 20px #0005,inset 0 0 0 1px #fff;animation:dtIn .35s ease-out}
+#deskTodos[hidden]{display:none}
+@keyframes dtIn{from{opacity:0;transform:translate(-50%,-10px)}to{opacity:1;transform:translate(-50%,0)}}
+#deskTodos .dt-head{display:flex;align-items:center;justify-content:space-between}
+#deskTodos .dt-head b{font:700 18px Grandstander,cursive;color:#7a3e2a}
+#deskTodos .dt-x{border:0;background:none;font:20px Grandstander,cursive;color:#7a5a3e;min-width:36px;min-height:36px}
+#deskTodos h5{margin:6px 0 0;font:700 14px/22px Grandstander,cursive;color:#2f6b6b}
+#deskTodos .dt-open{display:inline-block;margin-top:8px;border:0;background:none;color:#7a3e2a;font:600 15px Grandstander,cursive;text-decoration:underline wavy #7a3e2a66;padding:6px 0}
+.nb-page h4.nb-today{color:#b5427a;text-decoration-color:#b5427a66}.nb-page h4.nb-late{color:#a23b2a;text-decoration-color:#a23b2a66}
+.nb-page .nb-empty{margin:2px 0 0 4px;font-size:14px}
+@media (prefers-reduced-motion:reduce){#actors .cat{animation:none!important}#hotspots .ripple{animation-duration:.01s}}
+.nb-x,.gz-x{z-index:3}

diff --git a/index.html b/index.html
@@ -113,6 +113,7 @@
 </div>
 
 <section id="house" class="screen">
+  <div id="deskTodos" hidden role="dialog" aria-label="This week's to-dos"><div class="dt-head"><b>📓 This week's to-dos</b><button type="button" id="dtClose" class="dt-x" aria-label="Dismiss">✕</button></div><div id="dtList"></div><button type="button" id="dtOpen" class="dt-open">Open the notebook →</button></div>
   <div id="viewport"><div id="sway"><div id="stage"><img id="roomImg" alt="" draggable="false"><img id="roomFade" alt="" draggable="false"><div id="actors"></div></div><canvas id="motes" aria-hidden="true"></canvas></div><div id="vignette" aria-hidden="true"></div></div>
   <header id="topbar">
     <button class="ibtn" id="back" aria-label="Back to map"></button>
